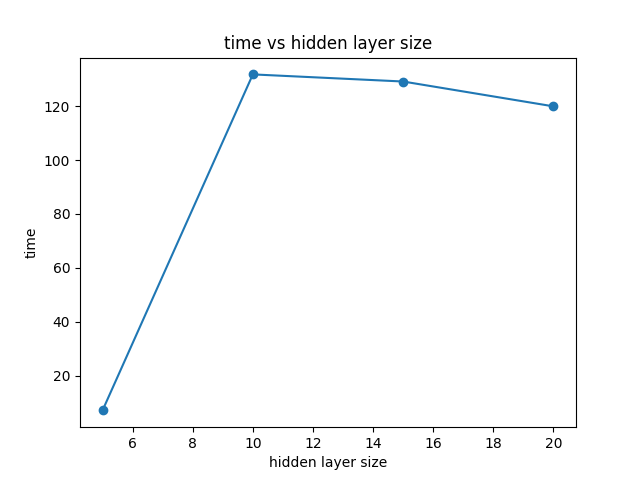
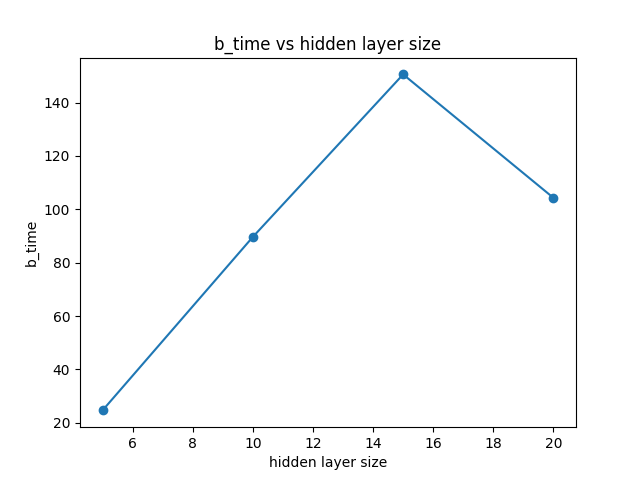
corrected

diff --git a/Assignment3/q2.py b/Assignment3/q2.py
@@ -217,15 +217,15 @@ def partBC(X_train,Y_train,X_test,Y_test,hidden_layer = [5,10,15,20,25],learning
     for thisH in hidden_layer:
         print("For size : "+str(thisH))
 
-        thisTime,thisTrain,thisTest,thisConf = trainTestModel(X_train,Y_train,X_test,Y_test,hidden_layer,learning_rate,learning_rate_type)
+        thisTime,thisTrain,thisTest,thisConf = trainTestModel(X_train,Y_train,X_test,Y_test,[thisH],learning_rate,learning_rate_type,verbose = True)
 
         training_time.append(thisTime)
         acc_train.append(thisTrain)
         acc_test.append(thisTest)
         
-        print("The confusion matrix for size "+str(thisH)+" is")
-        print(thisConf)
-        print("\n\n")
+        #print("The confusion matrix for size "+str(thisH)+" is")
+        #print(thisConf)
+        #print("\n\n")
     
     return training_time,acc_train,acc_test
 
